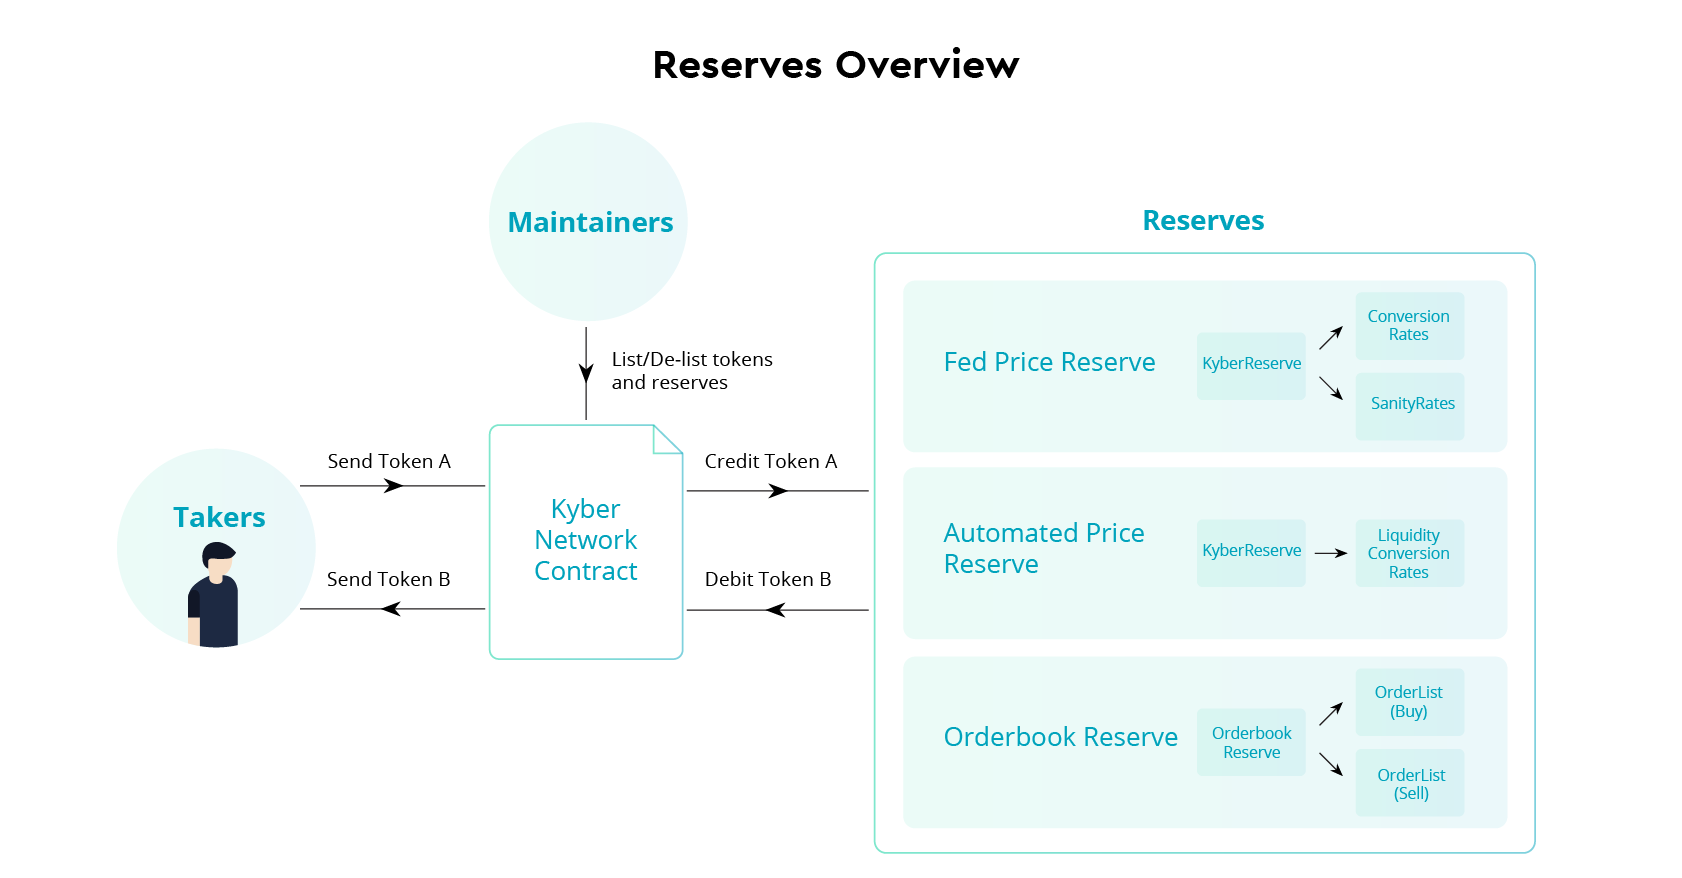
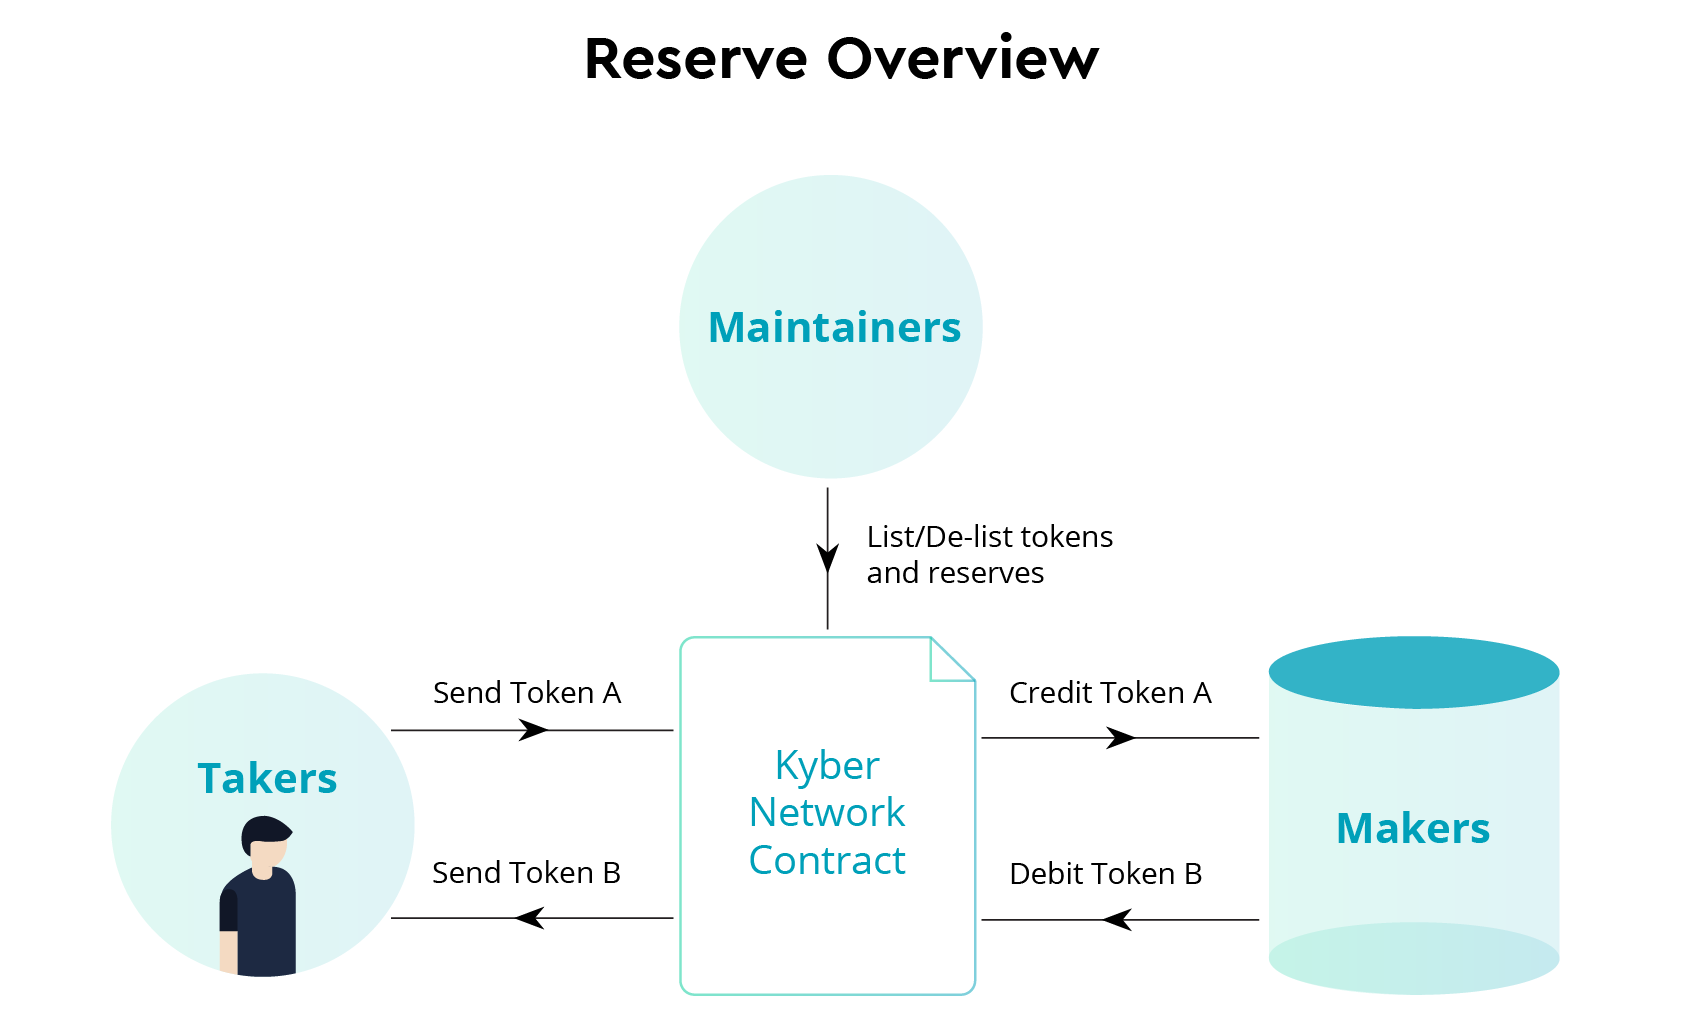
updated reserve overview

diff --git a/docs/reserves-intro.md b/docs/reserves-intro.md
@@ -2,15 +2,13 @@
 id: Reserves-Intro
 title: Introduction
 ---
-## Overview
-
 ![Kyber Reserve Overview](/uploads/kyberreserveoverview.png "Kyber Reserve Overview")
 
-Reserves provide liquidity to the protocol by contributing a diverse range of tokens. The reserves are comprised of a wide range of parties, from project teams looking to list their tokens, to professional market makers with customised trading strategies and even developers looking to build new reserve types.
+Makers provide liquidity to the protocol by contributing a diverse range of tokens. Makers are comprised of a wide range of parties, from project teams looking to list their tokens, to professional market makers with customised trading strategies and even developers looking to build new reserve types.
 
-**TODO: INSERT PIC HERE**
+![Ways of contributing liquidity](/uploads/contributingliquidity.png "Ways of contributing liquidity")
 
-As depicted in the diagram above, there are currently 3 ways that anyone can help contribute liquidity to the network. Users with technical skills can choose to create their own reserve type and aggregate liquidity from other liquidity sources such as [Uniswap](https://twitter.com/UniswapExchange/status/1092821767134035968). Alternatively, a non technical user can opt for one of the predefined reserve types that have already been created, such as our [Automated Price Reserve](reserves-automatedpricereserve.md). Lastly, one may also decide to contribute their tokens directly to an existing reserve like loaning your tokens to Kyber or a professional market maker to market make on your behalf.
+There are currently 3 ways that anyone can help contribute liquidity to the network. Users with technical skills can choose to create their own reserve type and aggregate liquidity from other liquidity sources such as [Uniswap](https://twitter.com/UniswapExchange/status/1092821767134035968). Alternatively, a non technical user can opt for one of the predefined reserve types that have already been created, such as our [Automated Price Reserve](reserves-automatedpricereserve.md). Lastly, one may also decide to contribute their tokens directly to an existing reserve like loaning your tokens to Kyber or a professional market maker to market make on your behalf.
 
 The key benefit reserves provide is *instant liquidity*. Takers such as DApps, vendors and wallets that integrate the protocol are able to immediately convert one token to another because of the liquidity made readily available by reserves.
 
